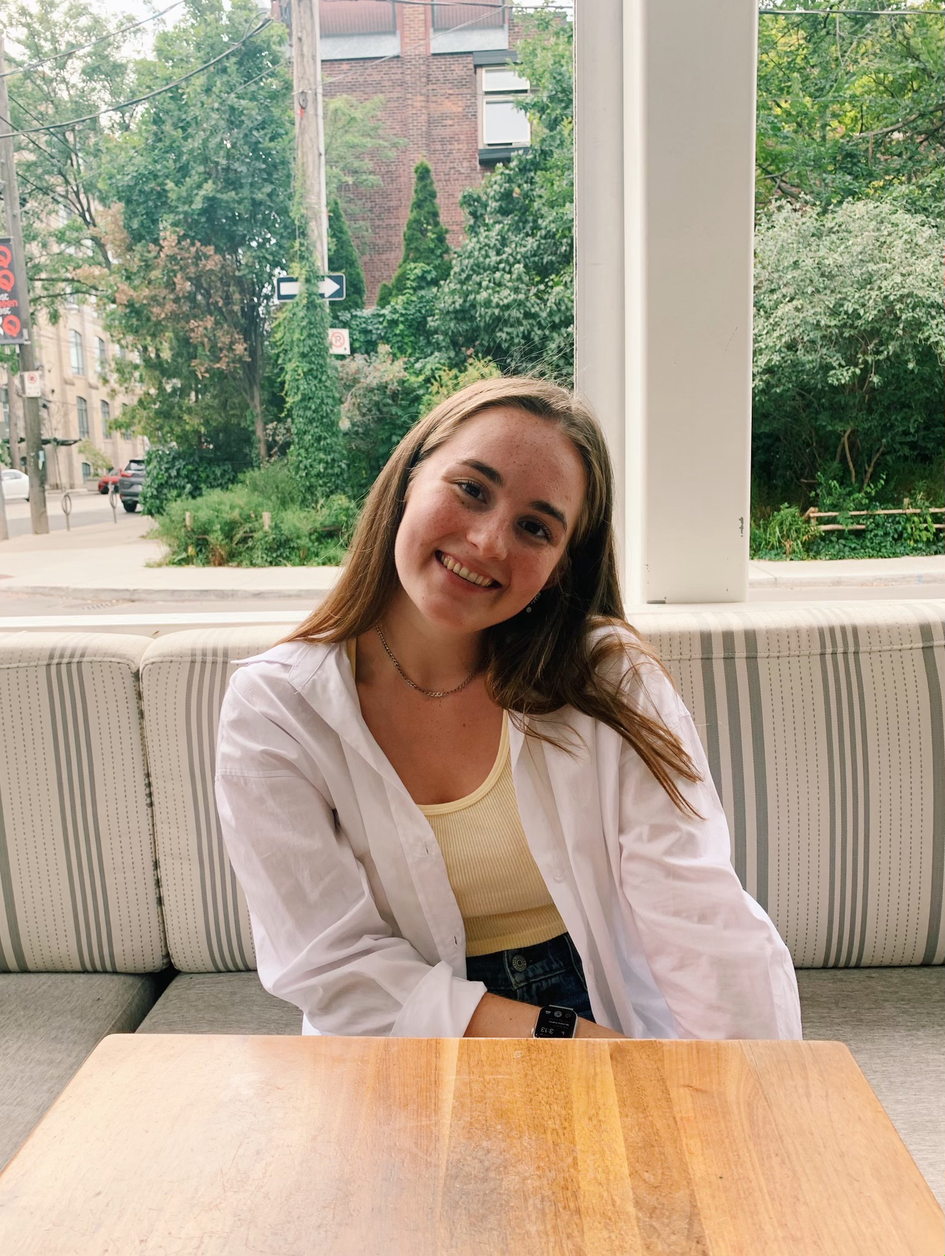
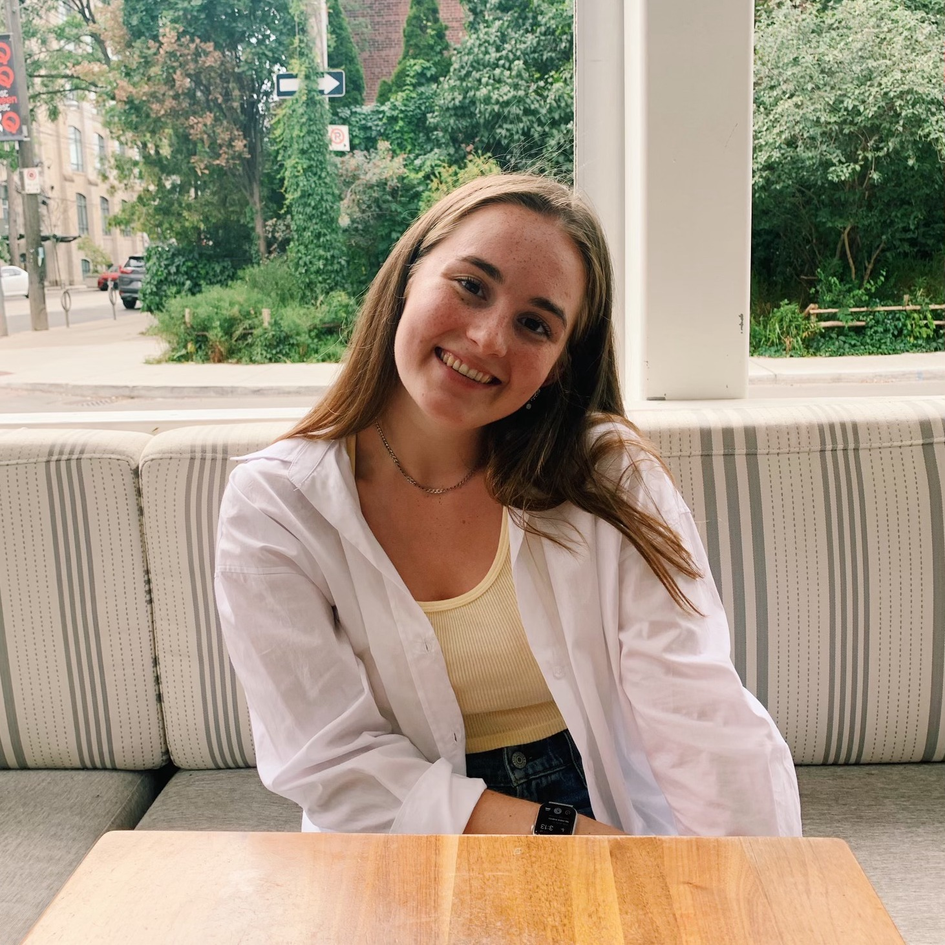
team page + minor style things

diff --git a/src/routes/meetTheTeam.jsx b/src/routes/meetTheTeam.jsx
@@ -1,0 +1,138 @@
+import './meetTheTeam.css';
+import Exec from '../components/Exec';
+import Juliana from '../assets/headshots/juliana.jpg';
+import Megan from '../assets/headshots/megan.jpg';
+import Xinye from '../assets/headshots/xinye.jpg';
+import Emma from '../assets/headshots/emma.jpg';
+import Ali from '../assets/headshots/ali.jpg';
+import Olivia from '../assets/headshots/olivia.jpg';
+import Kathryn from '../assets/headshots/kathryn.jpg';
+import Allison from '../assets/headshots/allison.jpg';
+import Isabella from '../assets/headshots/isabella.jpeg';
+import Bridgett from '../assets/headshots/bridgett.jpg';
+import Priya from '../assets/headshots/priya.jpg';
+import Maddy from '../assets/headshots/maddy.jpg';
+import Jordyn from '../assets/headshots/jordyn.png';
+import Rachel from '../assets/headshots/rachel.jpg';
+import Justus from '../assets/headshots/justus.png';
+
+export default function MeetTheTeam() {
+  return (
+    <main id='meet-the-team'>
+      <h1>Meet the Team</h1>
+      <p>
+        Who we are, what we do (as part of QHNS and as students), and our
+        favourite healthy snacks!
+      </p>
+      <div className='execs'>
+        <div className='two-col-grid'>
+          <Exec
+            img={Juliana}
+            name='Juliana Fernandes'
+            title='Co-President'
+            program='Fourth Year Kinesiology'
+            snack='Yogurt, Chocolate Granola, and Strawberries'
+          />
+          <Exec
+            img={Megan}
+            name='Megan Miller'
+            title='Co-President'
+            program='Fourth Year Health Studies and Sociology'
+            snack='Frozen Grapes'
+          />
+          <Exec
+            img={Xinye}
+            name='Xinye Lu'
+            title='Director of Logistics'
+            program='Second Year Health Sciences'
+            snack='Apple Brownie Bites'
+          />
+          <Exec
+            img={Emma}
+            name='Emma Epstein'
+            title='Director of Social Media'
+            program='Second Year Film and Media + Minor in Health Studies'
+            snack='Homemade Protein Balls'
+          />
+          <Exec
+            img={Ali}
+            name='Alexandra Romain'
+            title='Social Media Coordinator (Podcast)'
+            program='Third Year Engineering Chemistry + Certificate in Business'
+            snack='Fresh Mango'
+          />
+          <Exec
+            img={Olivia}
+            name='Olivia Pelletier'
+            title='Social Media Coordinator'
+            program='Fourth Year Life Sciences'
+            snack='Berries and Almond Butter'
+          />
+          <Exec
+            img={Kathryn}
+            name='Kathryn Green'
+            title='Social Media Coordinator'
+            program='Fourth Year Health Studies'
+            snack='Hummus, Crackers, and Carrots'
+          />
+          <Exec
+            img={Allison}
+            name='Allison Souter'
+            title='Social Media Coordinator'
+            program='Fifth Year Life Sciences'
+            snack='Chips, Guac, and Salsa'
+          />
+          <Exec
+            img={Isabella}
+            name='Isabella Enriquez'
+            title='IT Specialist'
+            program='Third Year Software Design'
+            snack='Banana Pancakes'
+          />
+          <Exec
+            img={Bridgett}
+            name='Bridgett Chau'
+            title='Events and Fundraising Coordinator'
+            program='Second Year Kinesiology'
+            snack='Frozen Berries with Almond Butter and Cacao Nibs'
+          />
+          <Exec
+            img={Priya}
+            name='Priya Mistry'
+            title='Events Coordinator'
+            program='Second Year Health Studies + Minor in Psychology'
+            snack='Smoothies'
+          />
+          <Exec
+            img={Maddy}
+            name='Maddy Hykamp'
+            title='Director of Sponsorships'
+            program='Second Year Health Studies + Minor in Employee Relations'
+            snack='Greek Yogurt with Frozen Berries and Peanut Butter'
+          />
+          <Exec
+            img={Jordyn}
+            name='Jordyn Leerentveld'
+            title='Second Year Representative'
+            program='Second Year Life Sciences'
+            snack='Carrots and Hummus'
+          />
+          <Exec
+            img={Rachel}
+            name='Rachel Fox'
+            title='Director of Events and Fundraising'
+            program='Fourth Year Sociology'
+            snack='Nomz Protein Balls'
+          />
+          <Exec
+            img={Justus}
+            name='Justus Vasilakos Mcrae'
+            title='Director of External Affairs'
+            program='Third Year Psychology + Minor in Health Studies'
+            snack='Greek Yogurt, Protein Powder, Cinnamon, Blueberries, and Granola'
+          />
+        </div>
+      </div>
+    </main>
+  );
+}

diff --git a/src/index.js b/src/index.js
@@ -5,6 +5,7 @@ import About from './routes/about';
 import GetInvolved from './routes/getInvolved';
 import './index.css';
 import Podcast from './routes/podcast';
+import MeetTheTeam from './routes/meetTheTeam';
 
 const rootElement = document.getElementById('root');
 render(
@@ -12,6 +13,7 @@ render(
     <Routes>
       <Route path='/' element={<App />}>
         <Route path='about' element={<About />}></Route>
+        <Route path='about/meet-the-team' element={<MeetTheTeam />}></Route>
         <Route path='get-involved' element={<GetInvolved />}></Route>
         <Route
           path='get-involved/podcast'

diff --git a/src/components/Exec.jsx b/src/components/Exec.jsx
@@ -1,0 +1,20 @@
+import React from 'react';
+import './Exec.css';
+
+export default class Exec extends React.Component {
+  render() {
+    return (
+      <div className='exec-card'>
+        <img
+          className='exec-img'
+          src={this.props.img}
+          alt={this.props.name}
+        ></img>
+        <p className='name'>{this.props.name}</p>
+        <p className='title'>{this.props.title}</p>
+        <p className='program'>{this.props.program}</p>
+        <p className='snack'>{this.props.snack}</p>
+      </div>
+    );
+  }
+}

diff --git a/src/routes/about.jsx b/src/routes/about.jsx
@@ -21,6 +21,10 @@ export default function About() {
         presence, we aim to inform and advocate for a nutritionally literate
         community.
       </p>
+      <p>
+        <a href='/get-involved'>Get Involved</a> by following our social media
+        and checking out some of our other initiatives!
+      </p>
     </main>
   );
 }

diff --git a/src/routes/meetTheTeam.css b/src/routes/meetTheTeam.css
@@ -1,12 +1,7 @@
-#about {
+#meet-the-team {
   background: url('../assets/backgrounds/about_black.png') no-repeat center
     center fixed;
   display: flex;
   flex-direction: column;
   align-items: center;
-}
-
-#about a {
-  color: #f0adad;
-  text-decoration: underline;
 }

diff --git a/src/components/Exec.css b/src/components/Exec.css
@@ -1,0 +1,20 @@
+.exec-img {
+  border-radius: 50%;
+  width: 200px;
+  height: 200px;
+  margin: 64px 0 16px;
+}
+
+.name {
+  font-weight: bold;
+}
+
+.exec-card {
+  display: flex;
+  flex-direction: column;
+  align-items: center;
+}
+
+.exec-card p {
+  margin: 0;
+}

diff --git a/src/components/Button.jsx b/src/components/Button.jsx
@@ -6,7 +6,6 @@ export default class Button extends React.Component {
   render() {
     return (
       <Link className='qhns-button' to={this.props.path}>
-        {/* {this.props.text} */}
         {this.props.children}
       </Link>
     );

diff --git a/src/App.css b/src/App.css
@@ -69,6 +69,12 @@ a:hover {
   padding: 8px;
 }
 
+.dropdown a:hover,
+.dropdown a.active {
+  background-color: #e84f4f;
+  color: white;
+}
+
 /* pages */
 main {
   padding: 20% 128px 128px;
